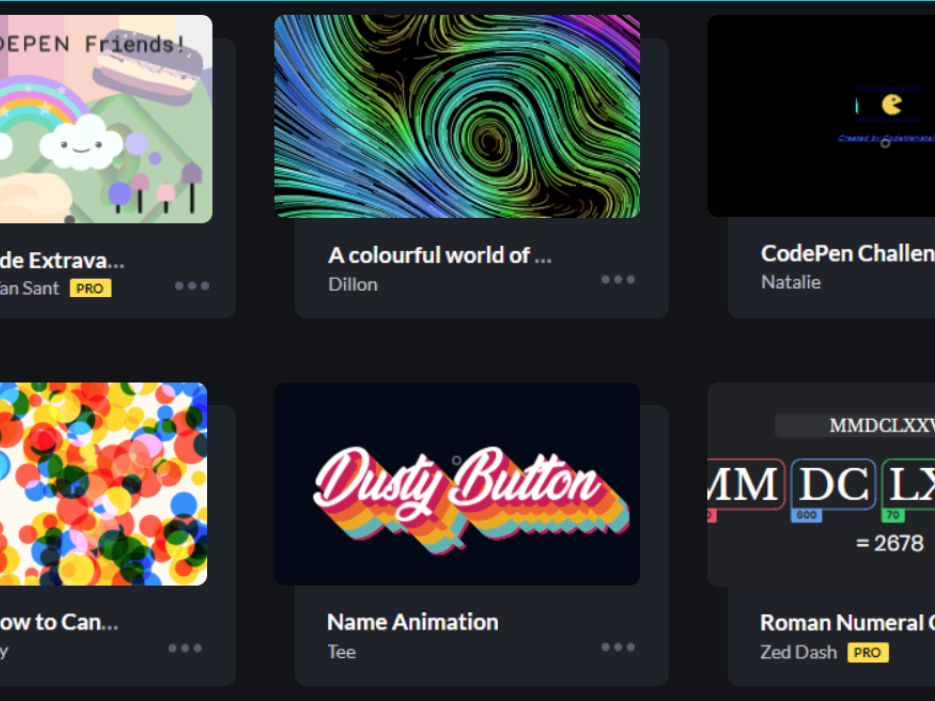
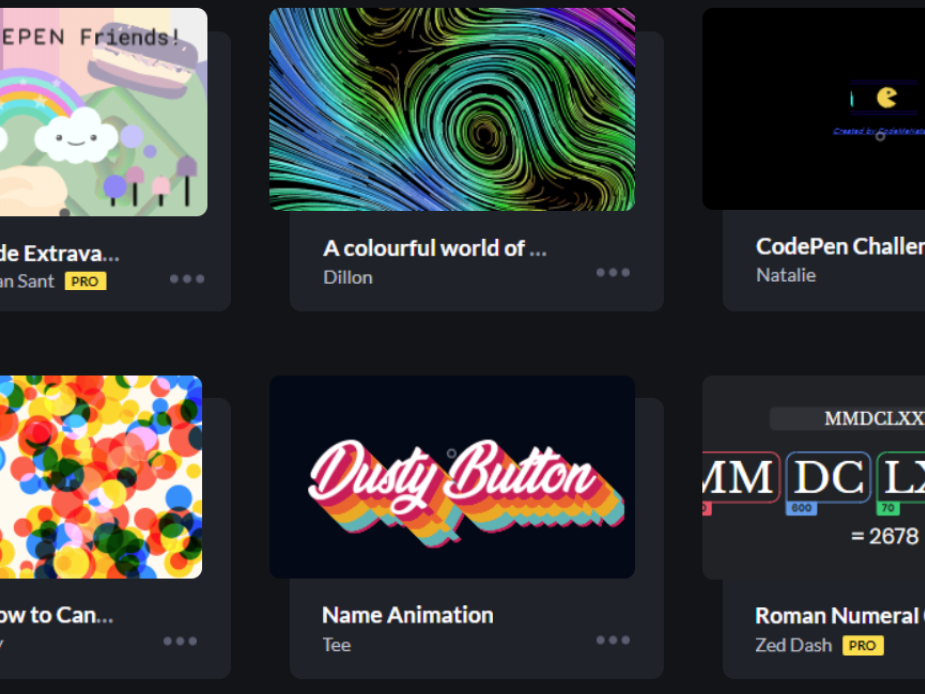
Adjusted image size and content margins.

diff --git a/css/styles.css b/css/styles.css
@@ -36,6 +36,7 @@ h6 {
 h2 {
   font-size: 300%;
   color: white;
+  margin: 60px;
 }
 
 label,
@@ -82,7 +83,7 @@ header {
 @media screen and (min-width: 1201px) {
   .title {
     float: left;
-    padding-top: 30rem;
+    padding-top: 27rem;
     padding-left: 10rem;
     font-size: 350%;
   }
@@ -97,12 +98,13 @@ header {
   .salutation {
     color: #cdcdcd;
     font-size: 70%;
+    padding-bottom: 10px;
   }
 
   .name {
     color: #26bfd4;
     font-weight: bold;
-    margin-left: -3px;
+    margin: 0 0 27px -3px;
     font-size: 150%;
   }
 
@@ -116,7 +118,7 @@ header {
 @media screen and (max-width: 1200px) {
   .title {
     float: left;
-    padding-top: 30rem;
+    padding-top: 27rem;
     padding-left: 10vw;
     font-size: 4vw;
   }
@@ -224,7 +226,7 @@ header {
   color: white;
 }
 
-/* Ogranizable projects */
+/* Ogranizable projects section*/
 
 .works-section {
   font-size: 62.5%;
@@ -248,7 +250,7 @@ header {
   display: block;
   max-width: 100%;
 }
-
+/* 
 .section {
   min-height: 40vh;
   display: -webkit-box;
@@ -265,7 +267,7 @@ header {
   -ms-flex-pack: center;
   justify-content: center;
   line-height: 160%;
-}
+} */
 
 @media screen and (min-width: 600px) {
   .section {
@@ -305,7 +307,7 @@ header {
   width: 50%;
   -webkit-transition: all 0.4s ease-in-out;
   transition: all 0.4s ease-in-out;
-  opacity: 0.8; /*.project-name*/
+  opacity: 0.6; /*.project-name*/
 }
 
 #projects .project-list .project-item .project-name {
@@ -367,7 +369,7 @@ header {
 
 @media screen and (min-width: 1200px) {
   #projects .project-list .project-item {
-    width: 16.66667%;
+    width: 30%;
   }
 }
 
@@ -376,10 +378,6 @@ header {
 .about-section p {
   padding-top: 20px;
   margin-bottom: -30px;
-}
-
-.about-section h3 {
-  font-weight: bold;
 }
 
 /* Content */
@@ -411,4 +409,10 @@ header {
 }
 .fa-stack:hover .fa.fa-circle {
   opacity: 1;
+}
+
+/*-------------------- BLOG SECTION --------------------*/
+
+.blog p {
+  margin-bottom: 200px;
 }

diff --git a/index.html b/index.html
@@ -168,7 +168,7 @@
 
     <!------------BLOG SECTION------------>
 
-    <div class="text-center">
+    <div class="blog text-center">
       <h2 id="blog">Blog</h2>
       <div class="container">
         <p>
